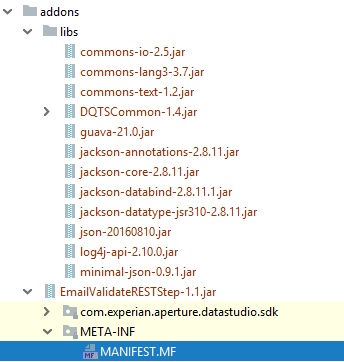
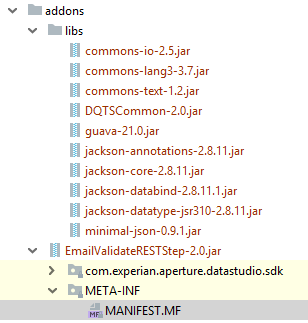
Remove class loader toggle from readme

Changed region(s): [[0.0, 0.0, 1.0, 1.0], [0.1169, 0.2786, 0.1461, 0.3406]]

diff --git a/README.md b/README.md
@@ -611,19 +611,13 @@ Some note on the custom step packaging:
     
     ```
     Manifest-Version: 1.0
-    Class-Path: libs/DQTSCommon-1.4.jar libs/jackson-datatype-jsr310-2.8.11.jar 
-    libs/jackson-databind-2.8.11.1.jar libs/jackson-core-2.8.11.jar 
-    libs/jackson-annotations-2.8.11.jar libs/guava-21.0.jar libs/commons-io-2.5.jar 
-    libs/commons-text-1.2.jar libs/commons-lang3-3.7.jar libs/minimal-json-0.9.1.jar
+    Class-Path: libs/DQTSCommon-2.0.jar libs/jackson-datatype-jsr310-2.8.1
+     1.jar libs/jackson-databind-2.8.11.1.jar libs/jackson-core-2.8.11.jar
+      libs/jackson-annotations-2.8.11.jar libs/guava-21.0.jar libs/commons
+     -io-2.5.jar libs/commons-text-1.2.jar libs/commons-lang3-3.7.jar libs
+     /minimal-json-0.9.1.jar
     ```
     
-### Feature Toggle
-
-Toggle off _Sdk Use Custom Classloader_ to revert the behavior to pre-1.5.0. When toggled off, all custom steps will be 
-loaded by single system class loader.
-
-![Class loader toggle](images/classloader-toggle.PNG)
-
 ## Optimizing a step
 Your custom step can be optimized by using the following function:
 
